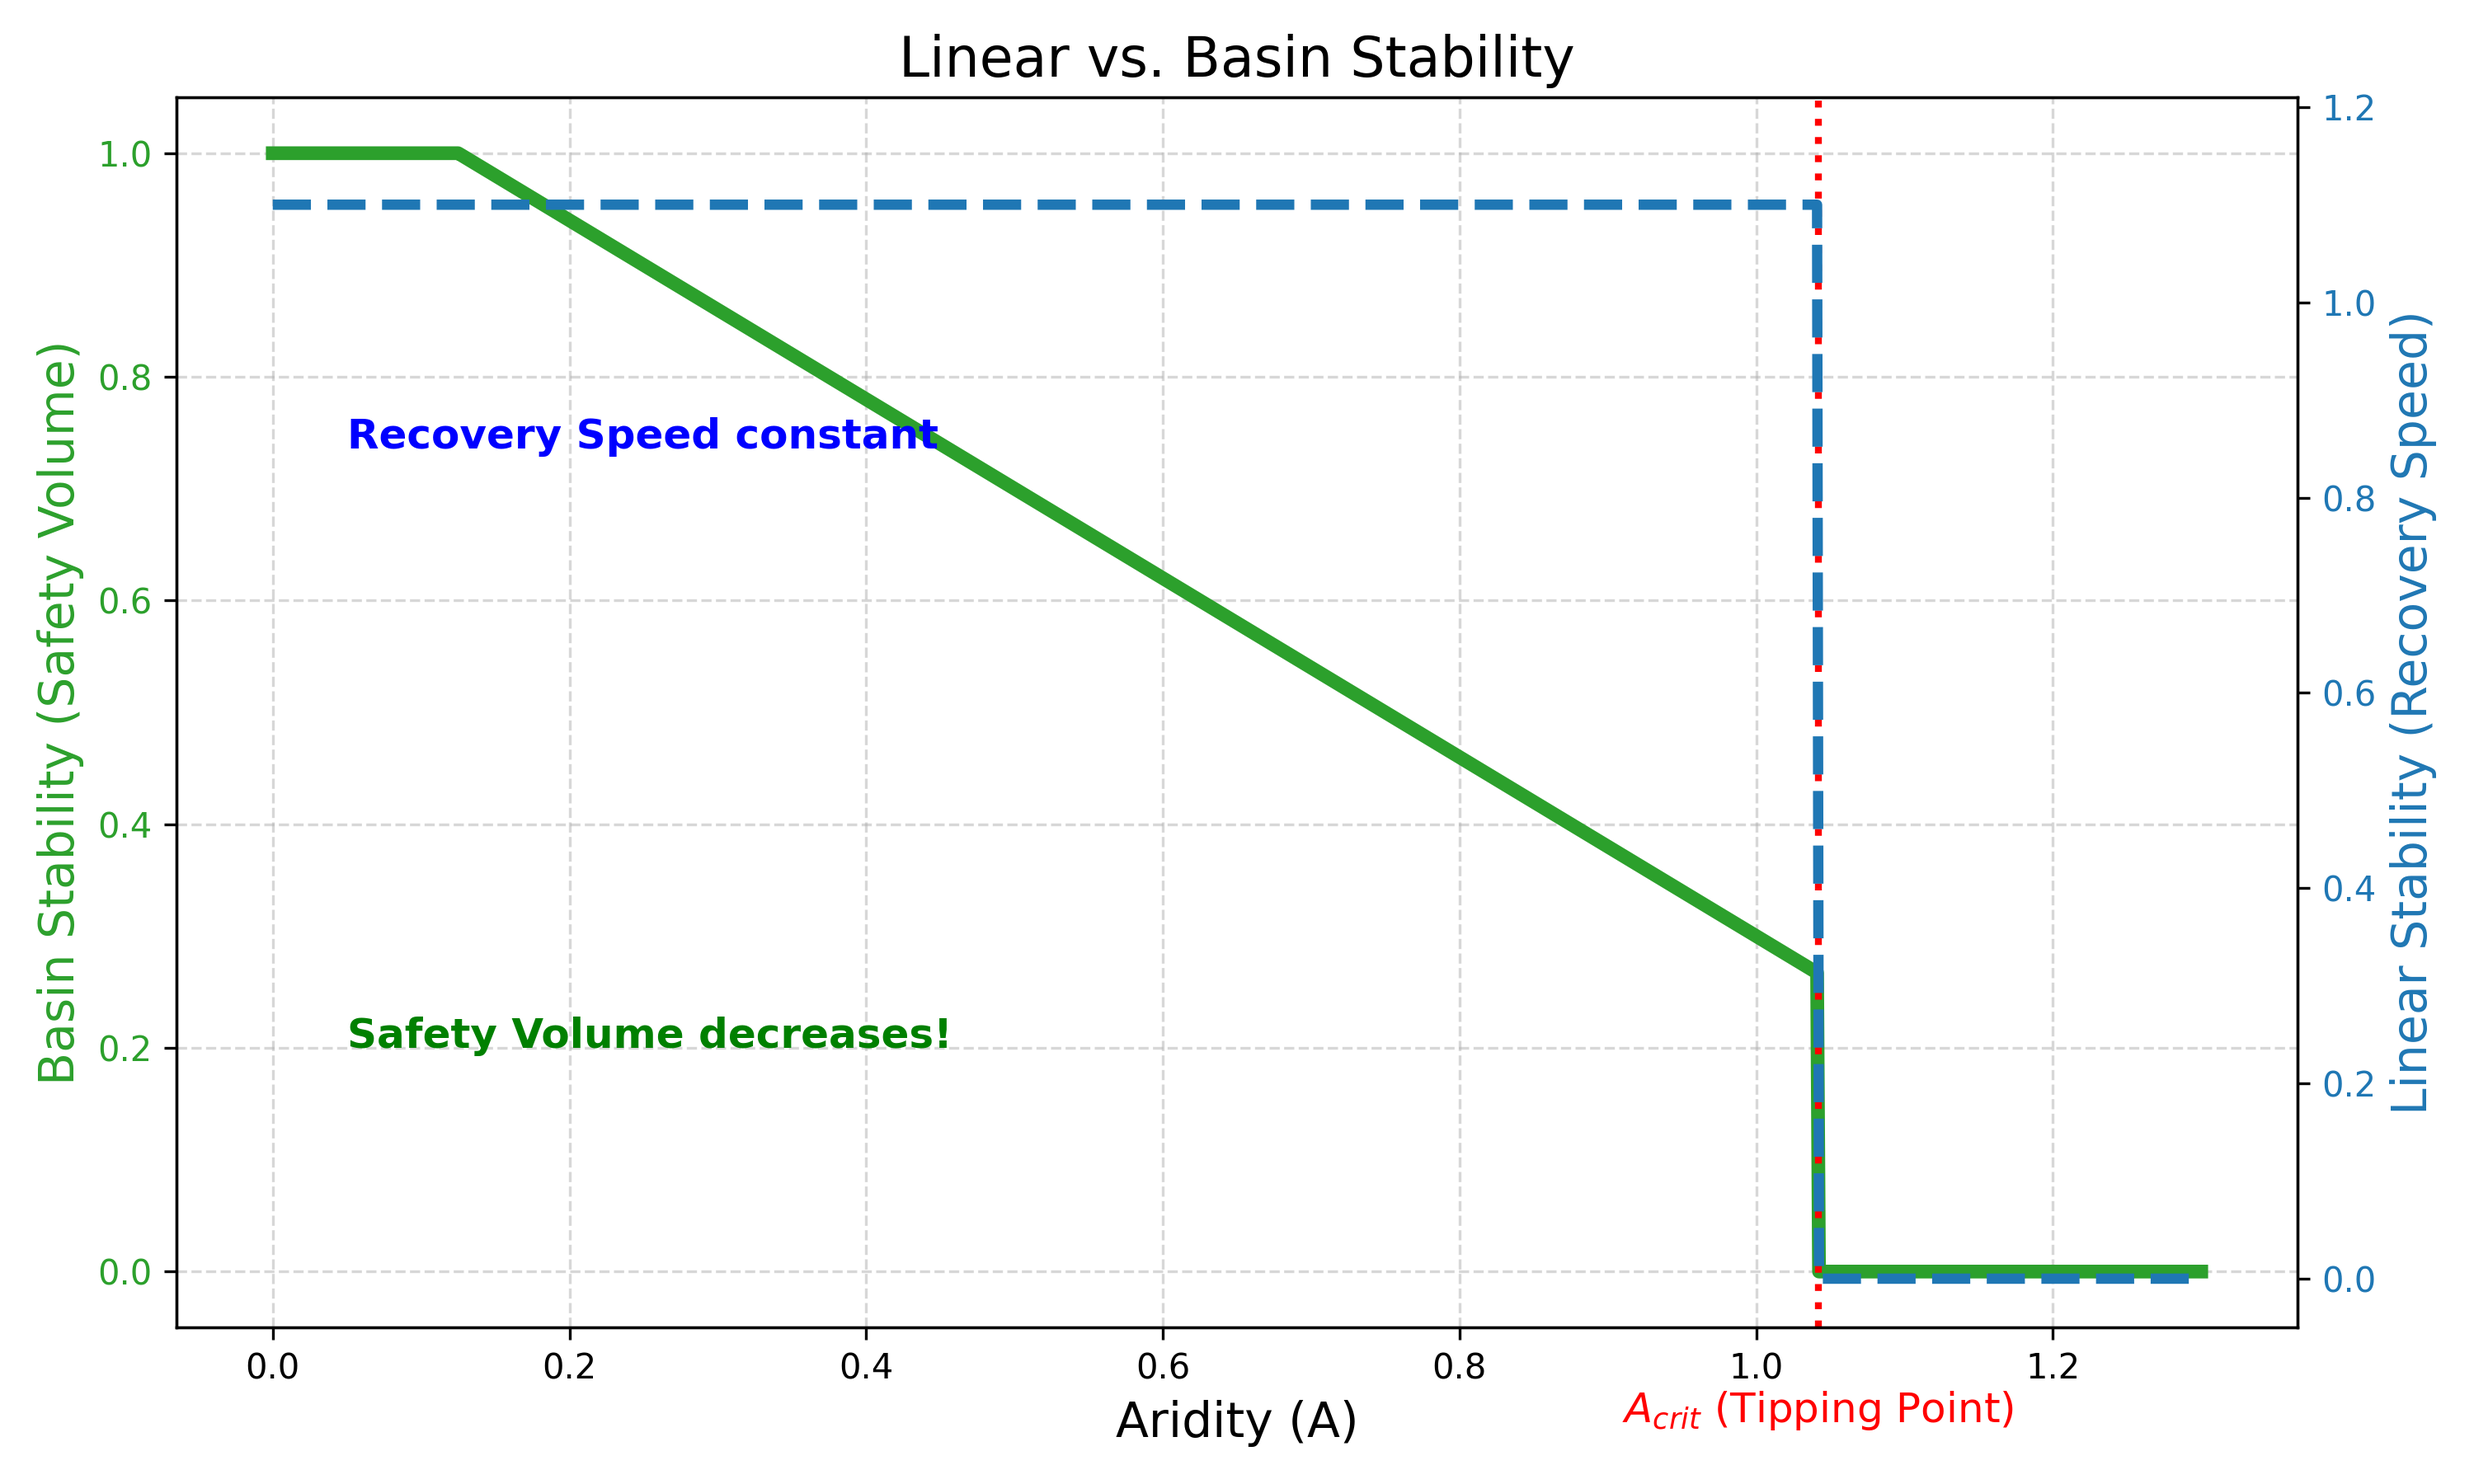
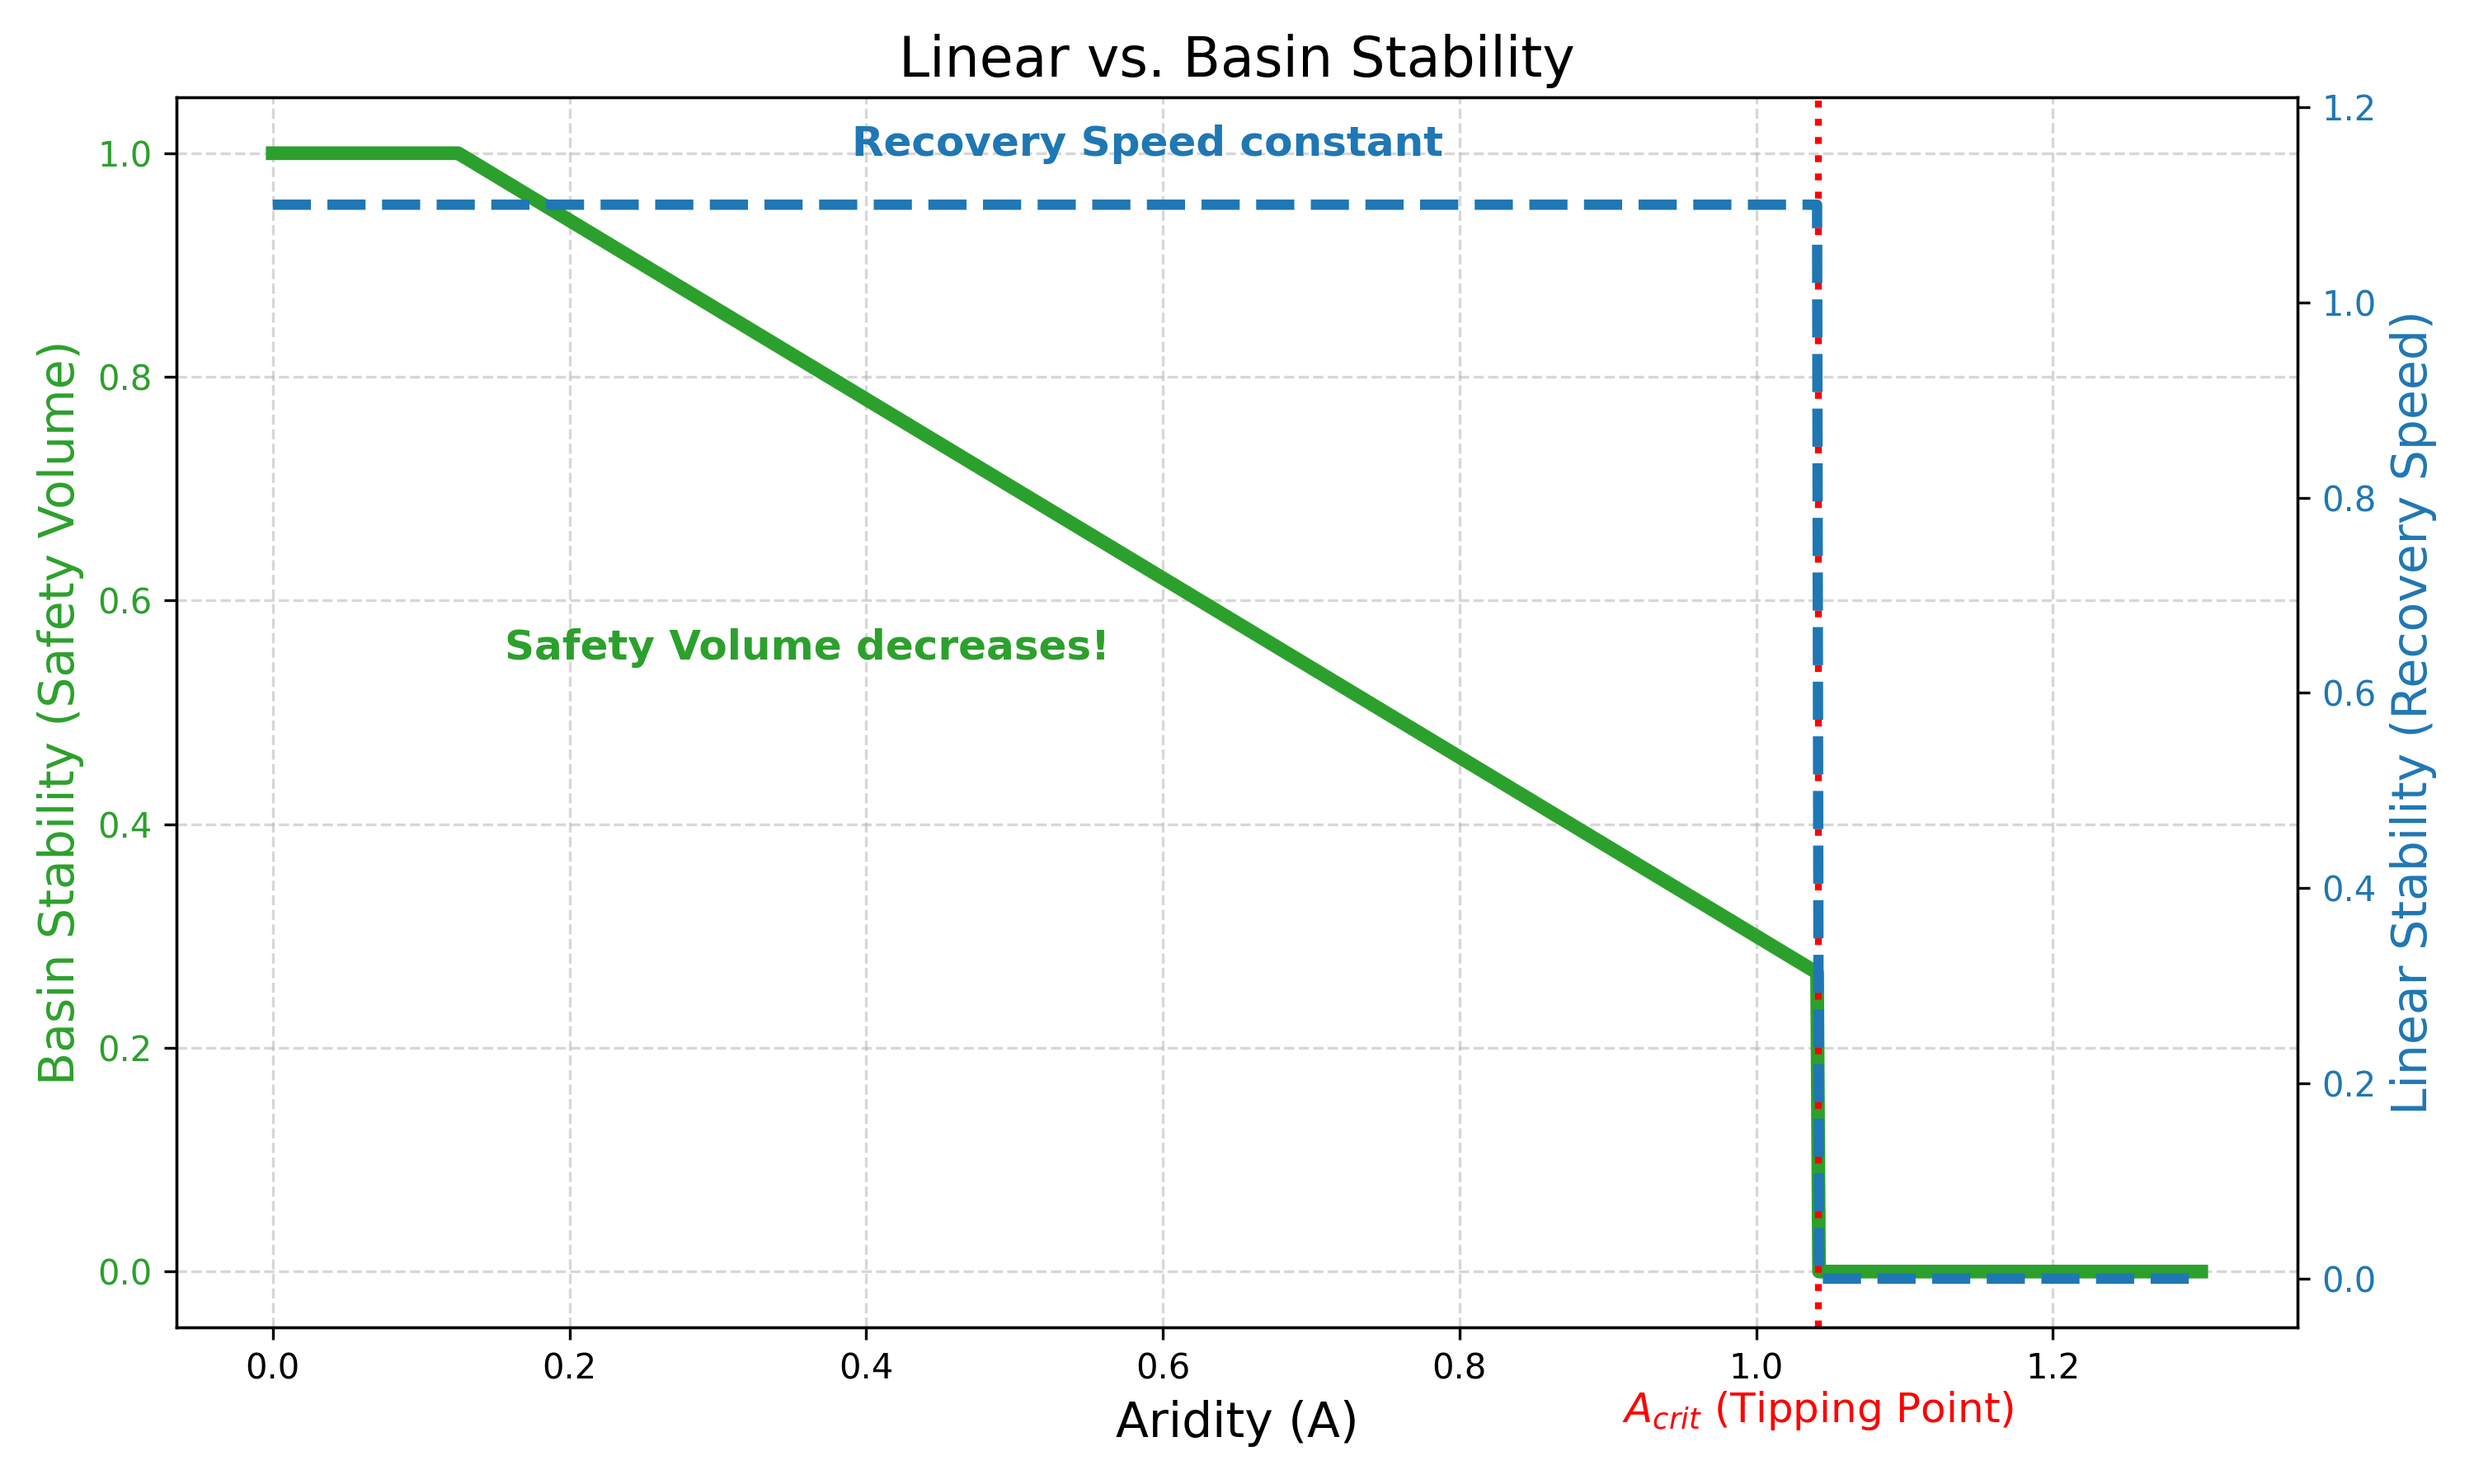
added some labels in main plots for milestone presentation

diff --git a/src/main.py b/src/main.py
@@ -57,18 +57,39 @@ def make_plot_noarrows(A,C,func_cover,func_crit,C_F,cmap=ListedColormap(['lightg
         
     AA, CC = np.meshgrid(A, C)
     C_crit=func_crit(A)
-    A_crit=A[np.argmin(abs(C_crit-C_F))]
+    # Berechne den Tipping Point Index
+    idx_crit = np.argmin(abs(C_crit-C_F))
+    A_crit = A[idx_crit]
+    
     State=func_cover(C_crit=C_crit,C=CC,A=AA)
 
     fig, ax = plt.subplots(figsize=figsize)
     ax.pcolormesh(AA, CC,State, shading='auto', cmap=cmap)
-    ax.plot(A,C_crit,color='white')
-    ax.plot([0,A_crit],[C_F,C_F],color='white')
     
+    # 1. Die Linie Plotten (ohne Label für Legende)
+    ax.plot(A, C_crit, color='white', linewidth=2)
+    
+    # 2. Text DIREKT auf die Linie schreiben
+    # Wir suchen einen Punkt ca. in der Mitte zwischen 0 und A_crit
+    text_idx = int(idx_crit * 0.5) 
+    text_x = A[text_idx]
+    text_y = C_crit[text_idx]
+    
+    # Text einfügen: rotation passt den Textwinkel an die Linie an (ggf. anpassen)
+    ax.text(text_x, text_y + 0.02, r'$C_{crit}(A)$', 
+            color='white', 
+            fontsize=12, 
+            fontweight='bold', 
+            rotation=28, # Winkel anpassen, falls es bei dir zu steil/flach ist
+            ha='center', 
+            va='bottom')
+
+    # Hilfslinien
+    ax.plot([0,A_crit],[C_F,C_F],color='white')
     ax.plot([A_crit,A_crit],[0,1],linestyle='--',color='white')
     ax.plot([0,np.max(A)],[C_F,C_F],linestyle='--',color='white')
 
-    ax.scatter([A_crit],[C_F],color='white')
+    ax.scatter([A_crit],[C_F],color='white', zorder=5)
     
     xticks =  [A_crit]
     xlabels = [ r"$A_{crit}$"]
@@ -83,11 +104,12 @@ def make_plot_noarrows(A,C,func_cover,func_crit,C_F,cmap=ListedColormap(['lightg
 
     ax.set_ylim(0,1)
 
+    # Legende nur noch für die Zustände (Farben)
     legend_handles = [
-        matplotlib.patches.Patch(color=cmap.colors[0], label="Savanna"),
-        matplotlib.patches.Patch(color=cmap.colors[1], label="Forest")
+        matplotlib.patches.Patch(color=cmap.colors[0], label="Savanna State"),
+        matplotlib.patches.Patch(color=cmap.colors[1], label="Forest State")
     ]
-    ax.legend(handles=legend_handles, title="State", loc="upper right")
+    ax.legend(handles=legend_handles, loc="lower right", framealpha=0.8)
     fig.tight_layout()
     
     return fig,ax
@@ -170,18 +192,31 @@ def make_plot_basin_vs_linear_stability(A, basin_stability, linear_stability, A_
     ax1.text(A_crit, -0.05, r'$A_{crit}$ (Tipping Point)', color='red', ha='center', va='top', 
          transform=ax1.get_xaxis_transform(), fontsize=12)
 
-    # Erklärende Texte
-    ax1.text(0.05, 0.2, 'Safety Volume decreases!', color='green', fontweight='bold', fontsize=12)
-    ax2.text(0.05, 0.85, 'Recovery Speed constant', color='blue', fontweight='bold', fontsize=12)
+    # --- DYNAMISCHE TEXT-PLATZIERUNG ---
+    # 1. Linear Stability Text (Blau)
+    y_linear = linear_stability[0]
+    ax2.text(A[int(len(A)*0.3)], y_linear + 0.05, 
+             'Recovery Speed constant', 
+             color='tab:blue', fontweight='bold', fontsize=12, ha='left')
+
+    # 2. Basin Stability Text (Grün) - DEUTLICH TIEFER
+    # Wir nehmen einen Punkt ziemlich am Anfang (15% des Weges)
+    idx_pos = np.argmin(np.abs(A - (A_crit * 0.15))) 
+    x_basin = A[idx_pos]
+    y_basin = basin_stability[idx_pos]
+    
+    # Das schiebt den Text weiter in den "freien Raum" unter der Kurve
+    ax1.text(x_basin, y_basin - 0.4, 
+             'Safety Volume decreases!', 
+             color='tab:green', fontweight='bold', fontsize=12, 
+             ha='left', va='top') 
 
     # Titel und Layout
     plt.title('Linear vs. Basin Stability', fontsize=16)
     ax1.grid(True, linestyle='--', alpha=0.5)
     fig.tight_layout()
     
-    # Rückgabe des Figure-Objekts und der Achsen
     return fig, (ax1, ax2)
-    
 # -------------------------------
 # Parameters
 # -------------------------------
